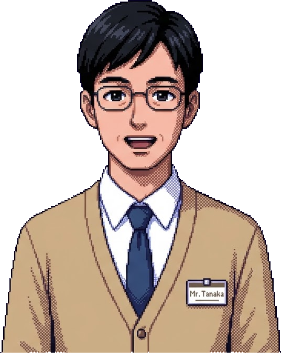
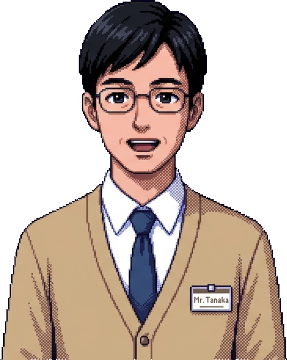
fix(giorno): ritratti fino al bordo del riquadro e domanda tradotta dopo la risposta

diff --git a/src/routes/giorno/+page.svelte b/src/routes/giorno/+page.svelte
@@ -690,6 +690,7 @@
 						<button class="btn ghost" onclick={() => replay(audioOf(mission))}>🔊 {replays === 0 ? 'Ascolta' : 'Riascolta (−2 min)'}</button>
 					{/if}
 					<p class="question ja">{mission.question.ja}</p>
+					{#if answered && mission.question.it}<p class="tr">💬 {mission.question.it}</p>{/if}
 					<div class="options">
 						{#each mission.options as o, i (o.ja)}
 							<button class="opt" class:right={answered && i === mission.answer} class:wrong={answered && i === chosen && i !== mission.answer} disabled={answered} onclick={() => choose(i)}>
@@ -717,6 +718,7 @@
 				{:else if mission.kind === 'calendar'}
 					<button class="btn ghost" onclick={() => replay(mission.lines)}>🔊 {replays === 0 ? 'Ascolta' : 'Riascolta (−2 min)'}</button>
 					<p class="question ja">{mission.question.ja}</p>
+					{#if answered && mission.question.it}<p class="tr">💬 {mission.question.it}</p>{/if}
 					<div class="cal">
 						{#each WD as w, i (w)}<span class="wd" class:we={i >= 5}>{w}</span>{/each}
 						{#each mission.days as d (d.day)}
